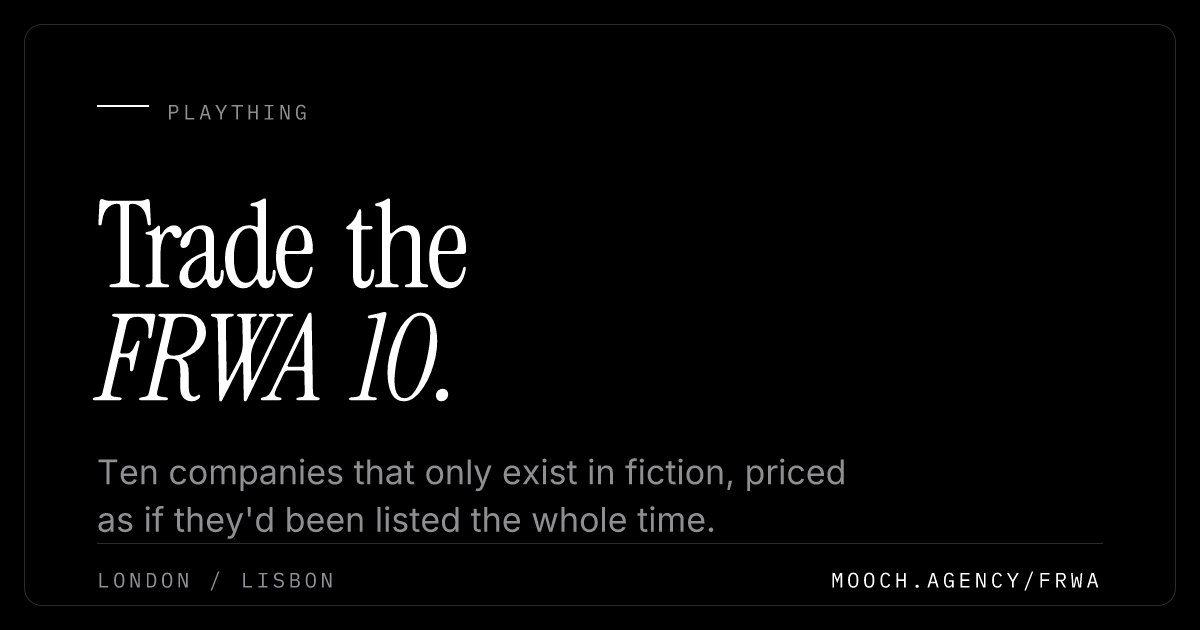
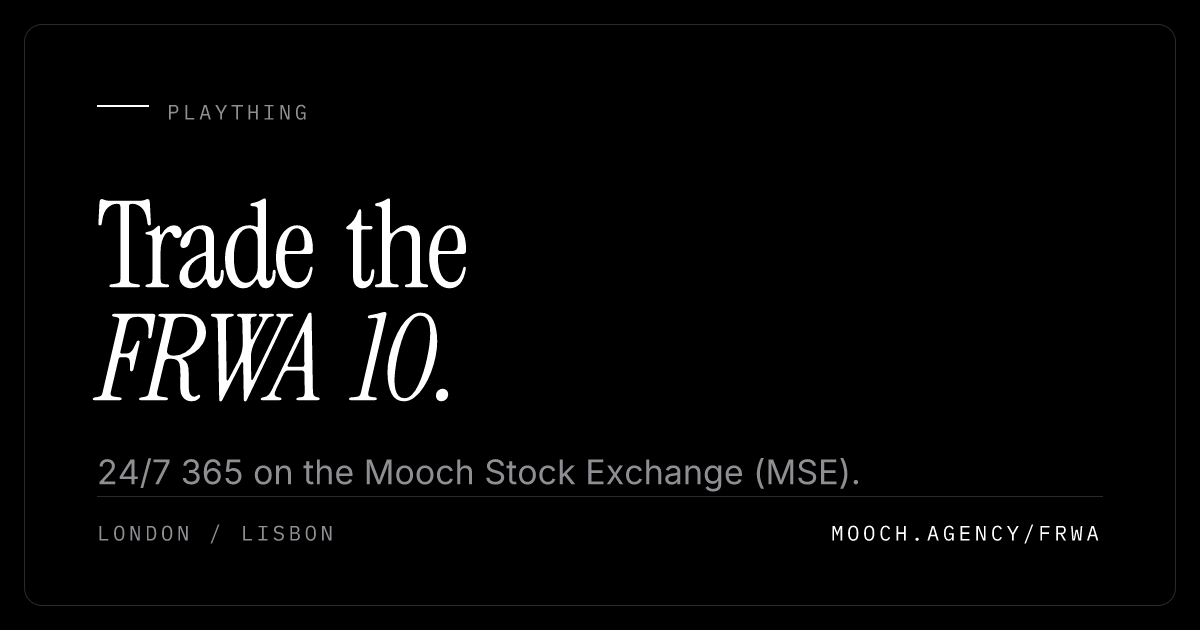
Rewrite FRWA title/description, drop the wink
New title "Fake Real World Assets" and description "Trade the FRWA 10
asset index 24/7 365 on the Mooch Stock Exchange (MSE)." across
index.html, prospectus.html and the share card. Drops phrases like
"played completely straight" and "filed with a straight face" that
pointed at the joke instead of just playing it, matching the site's
own rule (README: "the page never explains the joke").

Re-hashed and re-stamped og-frwa.png (?v=20bd56e2) since the card
changed too — see the previous commit's note on why that's manual
for anything under frwa/.

diff --git a/frwa/index.html b/frwa/index.html
@@ -3,24 +3,24 @@
 <head>
 <meta charset="UTF-8">
 <meta name="viewport" content="width=device-width, initial-scale=1">
-<title>FRWA 10: a stock exchange for companies that don't exist | Mooch</title>
+<title>Fake Real World Assets</title>
 <link rel="icon" type="image/svg+xml" href="/favicon.svg">
 <link rel="icon" type="image/x-icon" href="/favicon.ico">
 <link rel="apple-touch-icon" sizes="180x180" href="/apple-touch-icon-180.png">
-<meta name="description" content="Ten fictional companies, priced and filed as if they'd been listed the whole time. The exchange, the filings and the analyst coverage are all played completely straight.">
+<meta name="description" content="Trade the FRWA 10 asset index 24/7 365 on the Mooch Stock Exchange (MSE).">
 <link rel="canonical" href="https://mooch.agency/frwa">
 <meta property="og:type" content="website">
 <meta property="og:url" content="https://mooch.agency/frwa">
-<meta property="og:title" content="FRWA 10: a stock exchange for companies that don't exist | Mooch">
-<meta property="og:description" content="Ten fictional companies, priced and filed as if they'd been listed the whole time. The exchange, the filings and the analyst coverage are all played completely straight.">
-<meta property="og:image" content="https://mooch.agency/og-frwa.png?v=4f8d882e">
+<meta property="og:title" content="Fake Real World Assets">
+<meta property="og:description" content="Trade the FRWA 10 asset index 24/7 365 on the Mooch Stock Exchange (MSE).">
+<meta property="og:image" content="https://mooch.agency/og-frwa.png?v=20bd56e2">
 <meta property="og:image:width" content="1200">
 <meta property="og:image:height" content="630">
 <meta property="og:image:alt" content="FRWA 10 terminal: ten fictional companies trading on the Mooch Stock Exchange.">
 <meta name="twitter:card" content="summary_large_image">
-<meta name="twitter:title" content="FRWA 10: a stock exchange for companies that don't exist | Mooch">
-<meta name="twitter:description" content="Ten fictional companies, priced and filed as if they'd been listed the whole time. The exchange, the filings and the analyst coverage are all played completely straight.">
-<meta name="twitter:image" content="https://mooch.agency/og-frwa.png?v=4f8d882e">
+<meta name="twitter:title" content="Fake Real World Assets">
+<meta name="twitter:description" content="Trade the FRWA 10 asset index 24/7 365 on the Mooch Stock Exchange (MSE).">
+<meta name="twitter:image" content="https://mooch.agency/og-frwa.png?v=20bd56e2">
 <meta name="twitter:image:alt" content="FRWA 10 terminal: ten fictional companies trading on the Mooch Stock Exchange.">
 <link rel="preconnect" href="https://fonts.googleapis.com">
 <link rel="preconnect" href="https://fonts.gstatic.com" crossorigin>

diff --git a/frwa/prospectus.html b/frwa/prospectus.html
@@ -7,20 +7,20 @@
 <link rel="icon" type="image/svg+xml" href="/favicon.svg">
 <link rel="icon" type="image/x-icon" href="/favicon.ico">
 <link rel="apple-touch-icon" sizes="180x180" href="/apple-touch-icon-180.png">
-<meta name="description" content="The registration statement for ten companies that don't exist, filed with a straight face on the Mooch Stock Exchange.">
+<meta name="description" content="Registration statement for the FRWA 10 on the Mooch Stock Exchange (MSE).">
 <link rel="canonical" href="https://mooch.agency/frwa/prospectus">
 <meta property="og:type" content="website">
 <meta property="og:url" content="https://mooch.agency/frwa/prospectus">
 <meta property="og:title" content="FRWA Form S-1 | Mooch">
-<meta property="og:description" content="The registration statement for ten companies that don't exist, filed with a straight face on the Mooch Stock Exchange.">
-<meta property="og:image" content="https://mooch.agency/og-frwa.png?v=4f8d882e">
+<meta property="og:description" content="Registration statement for the FRWA 10 on the Mooch Stock Exchange (MSE).">
+<meta property="og:image" content="https://mooch.agency/og-frwa.png?v=20bd56e2">
 <meta property="og:image:width" content="1200">
 <meta property="og:image:height" content="630">
 <meta property="og:image:alt" content="FRWA 10 terminal: ten fictional companies trading on the Mooch Stock Exchange.">
 <meta name="twitter:card" content="summary_large_image">
 <meta name="twitter:title" content="FRWA Form S-1 | Mooch">
-<meta name="twitter:description" content="The registration statement for ten companies that don't exist, filed with a straight face on the Mooch Stock Exchange.">
-<meta name="twitter:image" content="https://mooch.agency/og-frwa.png?v=4f8d882e">
+<meta name="twitter:description" content="Registration statement for the FRWA 10 on the Mooch Stock Exchange (MSE).">
+<meta name="twitter:image" content="https://mooch.agency/og-frwa.png?v=20bd56e2">
 <meta name="twitter:image:alt" content="FRWA 10 terminal: ten fictional companies trading on the Mooch Stock Exchange.">
 <link rel="preconnect" href="https://fonts.googleapis.com">
 <link rel="preconnect" href="https://fonts.gstatic.com" crossorigin>
